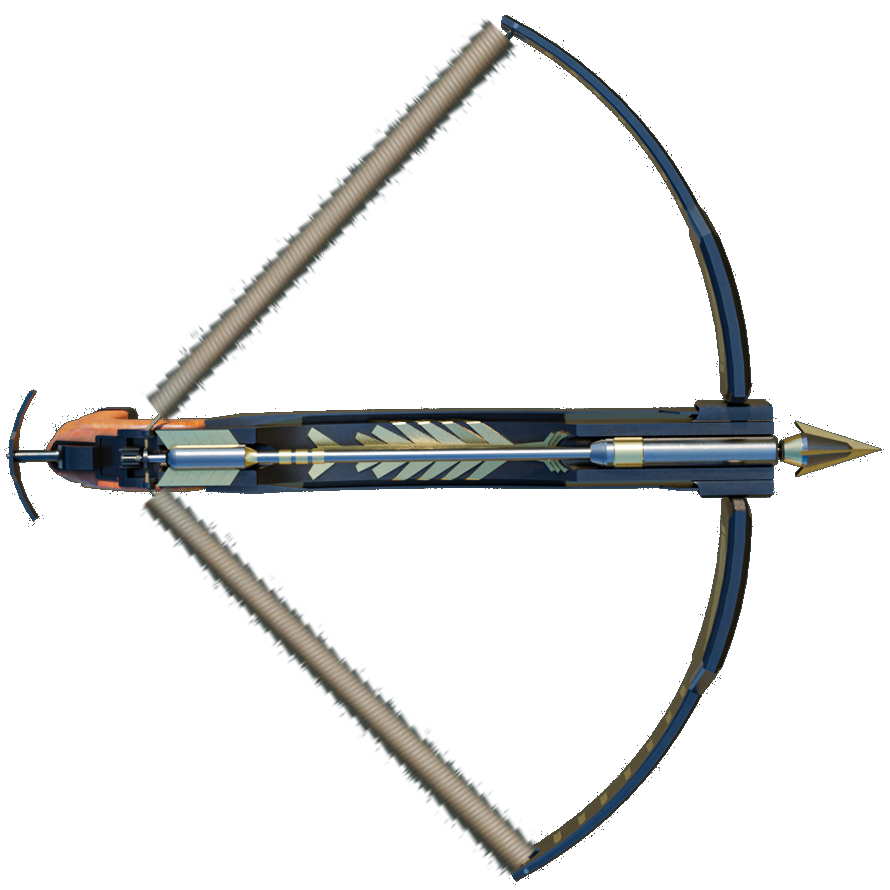
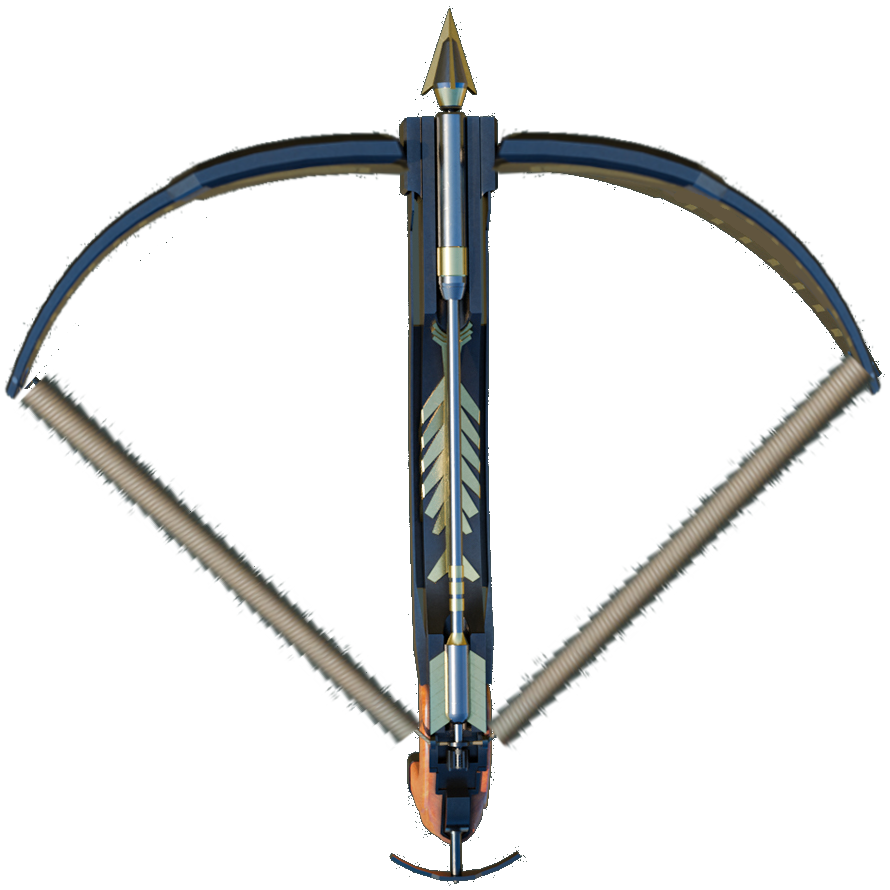
finish turret interface, rotate crossbow asset

Changed region(s): [[0.0, 0.0, 1.0, 1.0], [0.4247, 0.9404, 0.4551, 0.9708]]

diff --git a/src/graphics/egui_manager.rs b/src/graphics/egui_manager.rs
@@ -225,13 +225,27 @@ impl EguiManager {
             .collapsible(false)
             .fixed_size([width, 300.])
             .show(&self.platform.context(), |ui| {
-                let num_columns = 2 + kind.is_turret() as usize;
+                let num_columns = 2;
                 ui.columns(num_columns, |columns| {
                     columns[0].label(format!("Interactable's inventory:"));
                     for item in field.get_interactable_inventory_at(inter_pos) {
                         if item.1 != 0 {
                             columns[0].label(format!("{}: {}", item.0, item.1));
                         }
+                    }
+                    if kind.is_turret() {
+                        columns[0].add_space(30.);
+                        columns[0].label("Turret's targets:");
+                        let targets = field.get_interactable_targets_at(inter_pos);
+                        let mut new_targets = Vec::new();
+                        for mob in MobKind::iter() {
+                            let mut mob_in = targets.contains(&mob);
+                            columns[0].checkbox(&mut mob_in, format!("{:?}", mob));
+                            if mob_in {
+                                new_targets.push(mob);
+                            }
+                        }
+                        field.set_interactable_targets_at(inter_pos, new_targets);
                     }
                     columns[0].with_layout(
                         egui::Layout::left_to_right(Align::BOTTOM),
@@ -270,19 +284,6 @@ impl EguiManager {
                         if item.1 != 0 {
                             columns[1].label(format!("{}: {}", item.0, item.1));
                         }
-                    }
-
-                    if kind.is_turret() {
-                        let targets = field.get_interactable_targets_at(inter_pos);
-                        let mut new_targets = Vec::new();
-                        for mob in MobKind::iter() {
-                            let mut mob_in = targets.contains(&mob);
-                            columns[2].checkbox(&mut mob_in, format!("{:?}", mob));
-                            if mob_in {
-                                new_targets.push(mob);
-                            }
-                        }
-                        field.set_interactable_targets_at(inter_pos, new_targets);
                     }
                 });
             });

diff --git a/tests/turrets.rs b/tests/turrets.rs
@@ -17,7 +17,7 @@ use minecraft::crafting::interactable::InteractableKind::CrossbowTurret;
 use minecraft::crafting::ranged_weapon::RangedWeapon::Bow;
 use minecraft::crafting::storable::Storable;
 use minecraft::map_generation::mobs::mob::{Mob, Position};
-use minecraft::map_generation::mobs::mob_kind::MobKind::{Cow, Zergling, Zombie};
+use minecraft::map_generation::mobs::mob_kind::MobKind::{Baneling, Cow, Zergling, Zombie};
 
 
 #[test]
@@ -41,6 +41,43 @@ fn test_placed_turret_kills() {
     assert!(data.field.is_occupied((8, 8)));
     data.step_interactables();
     assert!(!data.field.is_occupied((8, 8)));
+}
+
+#[test]
+fn test_placed_turret_targets_only_banes() {
+    let mut data = Data::new();
+    data.player.x = 10;
+    data.player.y = 9;
+    let pos = Position {
+        x: 8,
+        y: 8,
+        z: 2,
+    };
+    let pos2 = Position {
+        x: 7,
+        y: 8,
+        z: 2,
+    };
+    let mob = Mob::new(pos, Zergling);
+    data.field.get_chunk(0, 0).add_mob(mob);
+    assert!(data.field.is_occupied((8, 8)));
+    data.player.pickup(CrossbowTurret.into(), 1);
+    data.place(CrossbowTurret.into());
+    data.field.load_interactable_at((9, 9), Arrow.into(), 10);
+    data.field.set_interactable_targets_at((9, 9), vec![Baneling]);
+    data.step_interactables();
+    data.step_interactables();
+    // zergling is still alive cause it is not targeted
+    assert!(data.field.is_occupied((8, 8)));
+
+    let mob = Mob::new(pos2, Baneling);
+    data.field.get_chunk(0, 0).add_mob(mob);
+    assert!(data.field.is_occupied((7, 8)));
+
+    data.step_interactables();
+    data.step_interactables();
+    // baneling is dead
+    assert!(!data.field.is_occupied((7, 8)));
 }
 
 #[test]

diff --git a/src/crafting/turret.rs b/src/crafting/turret.rs
@@ -1,4 +1,5 @@
 use std::cmp::{max, min};
+use crate::character::acting_with_speed::ActingWithSpeed;
 use crate::character::player::Player;
 use crate::crafting::interactable::{Interactable, InteractableKind};
 use crate::crafting::interactable::InteractableKind::*;
@@ -70,6 +71,8 @@ impl Interactable {
                 }
             }
         }
+        // nothing was shot, so it should be able to make a turn on the next tick
+        self.add_to_speed_buffer(1. - self.get_speed());
     }
 
     pub fn get_targets(&self) -> Vec<MobKind> {

diff --git a/src/settings.rs b/src/settings.rs
@@ -124,7 +124,7 @@ pub const DEFAULT_SETTINGS: Settings = Settings {
     },
     window: _Config__window {
         height: 1600,
-        tiles_per_row: 21,
+        tiles_per_row: 17,
         width: 1600,
     },
 };
